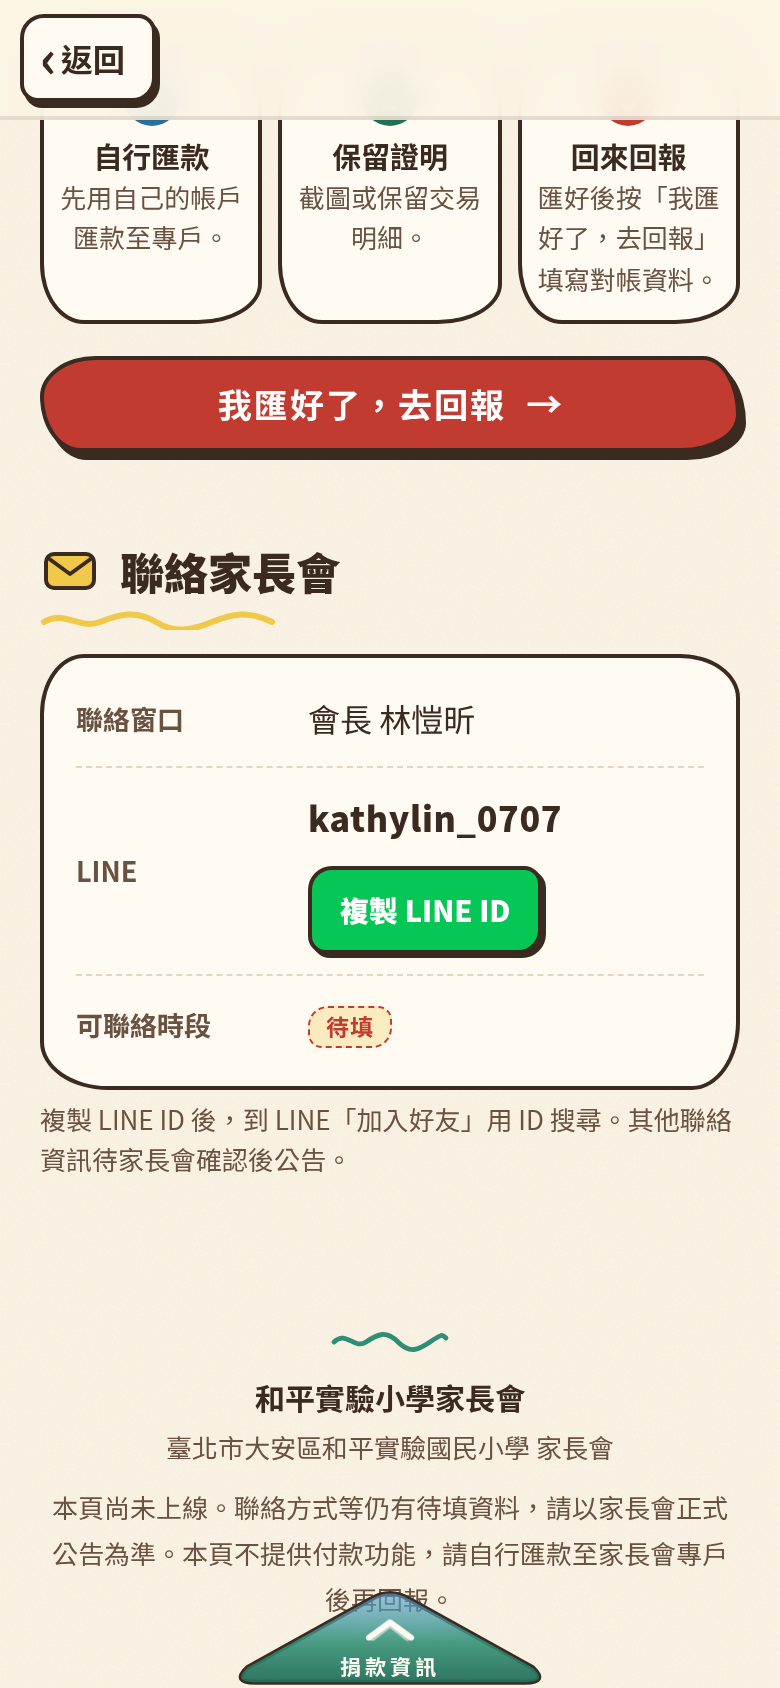
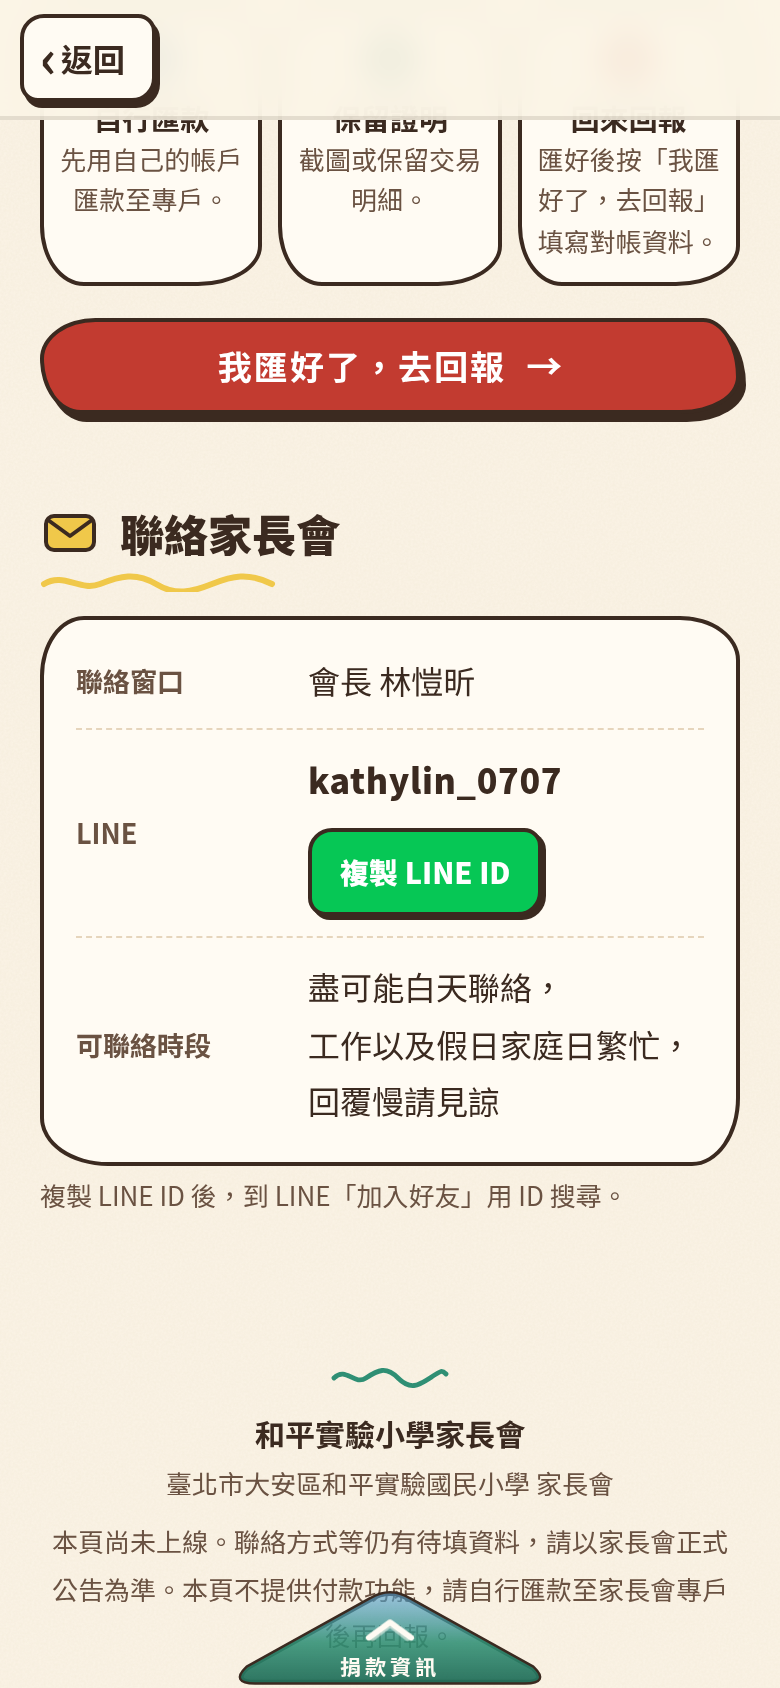
Contact: 可聯絡時段 text

diff --git a/teacher-preview.html b/teacher-preview.html
@@ -1719,16 +1719,16 @@
       <dl class="contact">
         <div><dt>聯絡窗口</dt><dd>會長 林愷昕</dd></div>
         <div><dt>LINE</dt><dd class="line-dd"><span class="line-id">kathylin_0707</span><button type="button" class="line-copy" id="lineCopy" data-copy="kathylin_0707" aria-label="複製 LINE ID kathylin_0707"><span data-copy-label>複製 LINE ID</span></button><span class="line-msg" id="lineMsg" role="status" aria-live="polite"></span></dd></div>
-        <div><dt>可聯絡時段</dt><dd><span class="tbd">待填</span></dd></div>
+        <div><dt>可聯絡時段</dt><dd>盡可能白天聯絡，<br>工作以及假日家庭日繁忙，回覆慢請見諒</dd></div>
       </dl>
-      <p class="hint">複製 LINE ID 後，到 LINE「加入好友」用 ID 搜尋。其他聯絡資訊待家長會確認後公告。</p>
+      <p class="hint">複製 LINE ID 後，到 LINE「加入好友」用 ID 搜尋。</p>
     </section>
 
     <footer>
       <svg width="60" height="14" viewBox="0 0 60 14" aria-hidden="true"><path d="M2 8c6-6 10 4 16 0s10-6 16 0 10 4 16 0 6-4 8-2" fill="none" stroke="#2F8F74" stroke-width="2.4" stroke-linecap="round"/></svg>
       <b>和平實驗小學家長會</b>
       臺北市大安區和平實驗國民小學 家長會
-      <p>本頁尚未上線。聯絡方式等仍有待填資料，請以家長會正式公告為準。本頁不提供付款功能，請自行匯款至家長會專戶後再回報。</p>
+      <p>本頁尚未上線，內容請以家長會正式公告為準。本頁不提供付款功能，請自行匯款至家長會專戶後再回報。</p>
     </footer>
   </div>
 </main>
